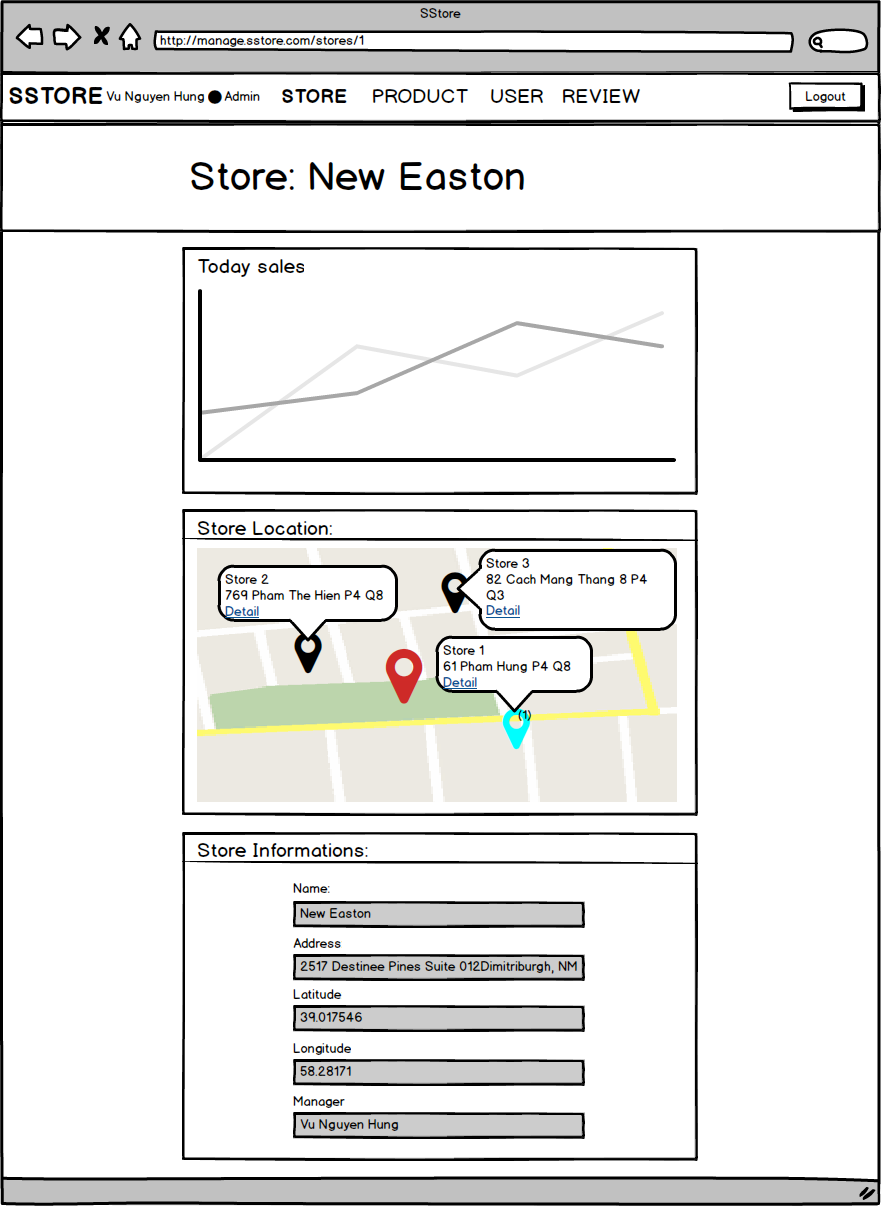
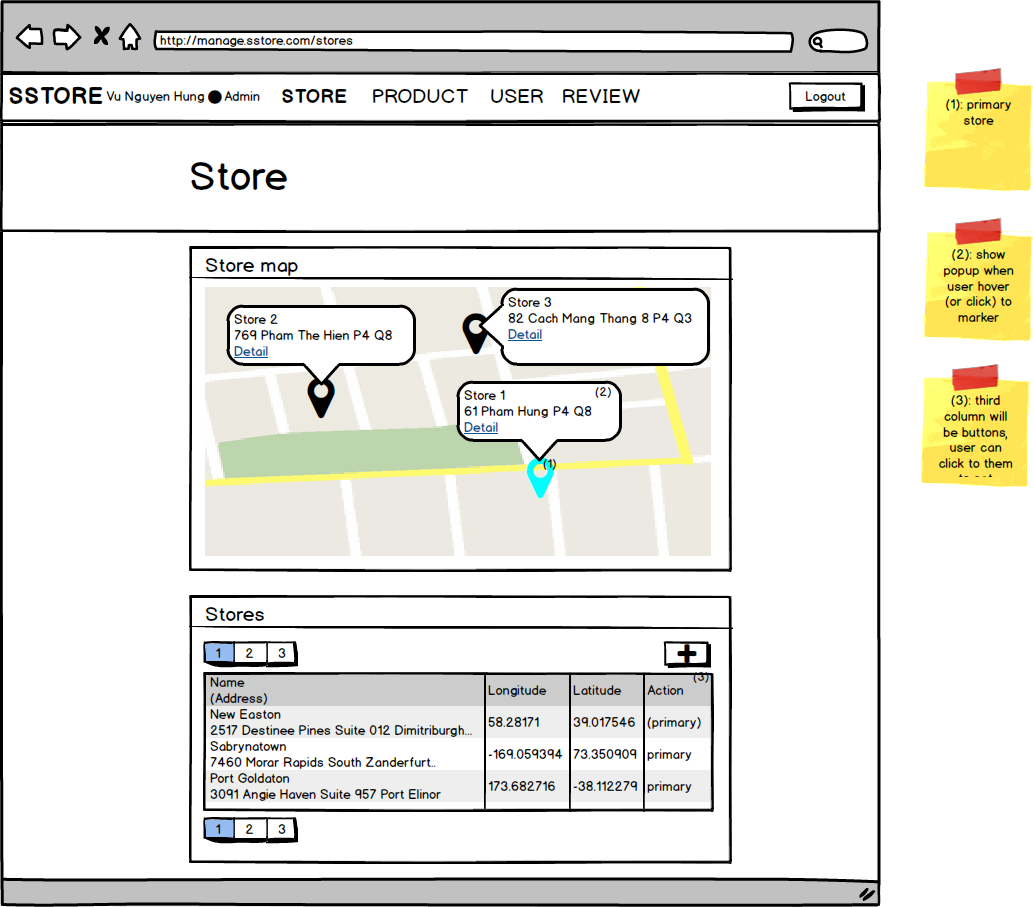
* create ui prototype of store page

diff --git a/ui-prototypes/admin/html/store.html b/ui-prototypes/admin/html/store.html
@@ -1,0 +1,147 @@
+<!DOCTYPE html>
+<html lang="en">
+<head>
+    <meta charset="UTF-8">
+    <title>Store</title>
+    <link href="https://maxcdn.bootstrapcdn.com/font-awesome/4.7.0/css/font-awesome.min.css" rel="stylesheet"
+          integrity="sha384-wvfXpqpZZVQGK6TAh5PVlGOfQNHSoD2xbE+QkPxCAFlNEevoEH3Sl0sibVcOQVnN" crossorigin="anonymous">
+    <link rel="stylesheet" href="https://maxcdn.bootstrapcdn.com/bootstrap/4.0.0-alpha.6/css/bootstrap.min.css"
+          integrity="sha384-rwoIResjU2yc3z8GV/NPeZWAv56rSmLldC3R/AZzGRnGxQQKnKkoFVhFQhNUwEyJ" crossorigin="anonymous">
+
+    <link rel="stylesheet" href="../style/global.css">
+    <link rel="stylesheet" href="../style/store.css">
+
+    <script src="https://code.jquery.com/jquery-3.1.1.slim.min.js"
+            integrity="sha384-A7FZj7v+d/sdmMqp/nOQwliLvUsJfDHW+k9Omg/a/EheAdgtzNs3hpfag6Ed950n"
+            crossorigin="anonymous"></script>
+    <script src="https://cdnjs.cloudflare.com/ajax/libs/tether/1.4.0/js/tether.min.js"
+            integrity="sha384-DztdAPBWPRXSA/3eYEEUWrWCy7G5KFbe8fFjk5JAIxUYHKkDx6Qin1DkWx51bBrb"
+            crossorigin="anonymous"></script>
+    <script src="https://maxcdn.bootstrapcdn.com/bootstrap/4.0.0-alpha.6/js/bootstrap.min.js"
+            integrity="sha384-vBWWzlZJ8ea9aCX4pEW3rVHjgjt7zpkNpZk+02D9phzyeVkE+jo0ieGizqPLForn"
+            crossorigin="anonymous"></script>
+    <script type="text/javascript" src="https://www.gstatic.com/charts/loader.js"></script>
+    <script async defer
+            src="https://maps.googleapis.com/maps/api/js?key=AIzaSyACGaDxyjAqy8uZMSq7uGGqPcinO_Z0IsU&callback=initMap">
+    </script>
+    <script type="text/javascript" src="../scripts/store.js"></script>
+</head>
+<body>
+<!--START NAV BAR-->
+<nav class="navbar navbar-toggleable-md navbar-light bg-faded fixed-top">
+    <button class="navbar-toggler navbar-toggler-right" type="button" data-toggle="collapse"
+            data-target="#app-navbar" aria-controls="app-navbar-control" aria-expanded="false"
+            aria-label="Toggle navigation">
+        <span class="navbar-toggler-icon"></span>
+    </button>
+    <a class="navbar-brand" routerLink="/">SSTORE<i class="fa fa-shopping-cart"></i></a>
+
+    <div class="collapse navbar-collapse" id="app-navbar">
+        <div class="navbar-nav mr-auto mt-2 mt-md-0">
+            <a class="nav-item nav-link" routerLink="/">
+                <small>Hello, Vu Nguyen Hung</small>
+                <small class="text-primary">
+                    <i class="fa fa-circle" aria-hidden="true"></i>
+                    <span>Admin</span>
+                </small>
+            </a>
+            <ul class="navbar-nav mr-auto">
+                <li class="nav-item">
+                    <a class="nav-link active" href="#">Store</a>
+                </li>
+                <li class="nav-item">
+                    <a class="nav-link" href="#">Product</a>
+                </li>
+                <li class="nav-item">
+                    <a class="nav-link" href="#">User</a>
+                </li>
+                <li class="nav-item">
+                    <a class="nav-link" href="#">Review</a>
+                </li>
+            </ul>
+
+
+        </div>
+        <button class="btn btn-outline-primary my-2 my-sm-0" type="button">Logout</button>
+    </div>
+</nav>
+<!--END NAV BAR-->
+
+<!--START JUMBOTRON-->
+<div class="jumbotron bg-primary text-white">
+    <div class="container">
+        <h1 class="display-3">Store</h1>
+        <span class="lead"></span>
+    </div>
+</div>
+<!--END JUMBOTRON-->
+<div class="container">
+
+    <!--START TODAY SALES CHART-->
+    <div class="row mb-3">
+        <div class="col-12">
+            <div class="card">
+                <h3 class="card-header">Store map</h3>
+                <div id="map"></div>
+            </div>
+        </div>
+    </div>
+    <!--END TODAY SALES CHART-->
+
+    <div class="row mb-5">
+        <div class="col-12">
+            <div class="card">
+                <h3 class="card-header">Store list</h3>
+
+                <table class="table table-hover">
+                    <thead>
+                    <tr>
+                        <th>#</th>
+                        <th>Store name</th>
+                        <th>latitude</th>
+                        <th>Longitude</th>
+                        <th>Address</th>
+                        <th>Action</th>
+                    </tr>
+                    </thead>
+                    <tbody>
+                    <tr>
+                        <th scope="row">0</th>
+                        <td>Store To Hien Thanh 1</td>
+                        <td>10.772603</td>
+                        <td>106.6602087020874</td>
+                        <td>224 To Hien Thanh P.4 Q.8 Ho Chi Minh</td>
+                        <td>
+                            <button class="btn btn-sm btn-outline-primary">Detail</button>
+                        </td>
+                    </tr>
+                    <tr>
+                        <th scope="row">1</th>
+                        <td>Store Ta Quang Buu 1</td>
+                        <td>10.74207841488251</td>
+                        <td>106.68033599853516</td>
+                        <td>51 Ta Quang Buu P.4 Q.8 Ho Chi Minh</td>
+                        <td>
+                            <button class="btn btn-sm btn-outline-primary">Detail</button>
+                        </td>
+                    </tr>
+                    <tr>
+                        <th scope="row">2</th>
+                        <td>Store Ba Thang Hai 1</td>
+                        <td>10.76927252012046</td>
+                        <td>106.67080879211426</td>
+                        <td>31 Ba Thang Hai P.4 Q.8 Ho Chi Minh</td>
+                        <td>
+                            <button class="btn btn-sm btn-outline-primary">Detail</button>
+                        </td>
+                    </tr>
+                    </tbody>
+                </table>
+            </div>
+        </div>
+    </div>
+
+</div>
+
+</body>
+</html>

diff --git a/ui-prototypes/admin/scripts/store.js b/ui-prototypes/admin/scripts/store.js
@@ -1,0 +1,79 @@
+/**
+ * Created by vunguyenhung on 5/7/17.
+ */
+function initMap() {
+    var markerPositions = [
+        {lat: 10.772603, lng: 106.6602087020874}, // To Hien Thanh
+        {lat: 10.74207841488251, lng: 106.68033599853516}, // Ta Quang Buu
+        {lat: 10.76927252012046, lng: 106.67080879211426} // Ba Thang Hai
+    ];
+    var map = new google.maps.Map(document.getElementById('map'), {
+        zoom: 13,
+        center: markerPositions[2]
+    });
+
+    // MARKER
+    var contentString = '<div class="lead">Store To Hien Thanh 1</div>' +
+        '<div>224 To Hien Thanh P.4 Q.8 Ho Chi Minh</div>' +
+        '<button class="btn btn-link btn-sm pl-0">Detail</button>';
+
+    var infowindow = new google.maps.InfoWindow({
+        content: contentString
+    });
+
+    var marker = new google.maps.Marker({
+        position: markerPositions[0],
+        map: map,
+        animation: google.maps.Animation.DROP,
+        label: '0'
+    });
+
+    marker.addListener('click', function () {
+        infowindow.open(map, this);
+    });
+
+
+    // MARKER 1
+    var contentString1 = '<div class="lead">Store Ta Quang Buu 1</div>' +
+        '<div>51 Ta Quang Buu P.4 Q.8 Ho Chi Minh</div>' +
+        '<button class="btn btn-link btn-sm pl-0">Detail</button>';
+
+    var infowindow1 = new google.maps.InfoWindow({
+        content: contentString1
+    });
+
+    var marker1 = new google.maps.Marker({
+        position: markerPositions[1],
+        map: map,
+        animation: google.maps.Animation.DROP,
+        label: '1'
+    });
+
+    marker1.addListener('click', function () {
+        infowindow1.open(map, this);
+    });
+
+
+    // MARKER 2
+    var contentString2 = '<div class="lead">Store Ba Thang Hai 1</div>' +
+        '<div>31 Ba Thang Hai P.4 Q.8 Ho Chi Minh</div>' +
+        '<button class="btn btn-link btn-sm pl-0">Detail</button>';
+
+    var infowindow2 = new google.maps.InfoWindow({
+        content: contentString2
+    });
+
+    var marker2 = new google.maps.Marker({
+        position: markerPositions[2],
+        map: map,
+        animation: google.maps.Animation.DROP,
+        title: 'Hello World!',
+        label: '2'
+    });
+
+    marker2.addListener('click', function () {
+        infowindow2.open(map, this);
+    });
+
+
+}

diff --git a/ui-prototypes/admin/style/store.css b/ui-prototypes/admin/style/store.css
@@ -1,0 +1,3 @@
+#map {
+    height: 400px;
+}
